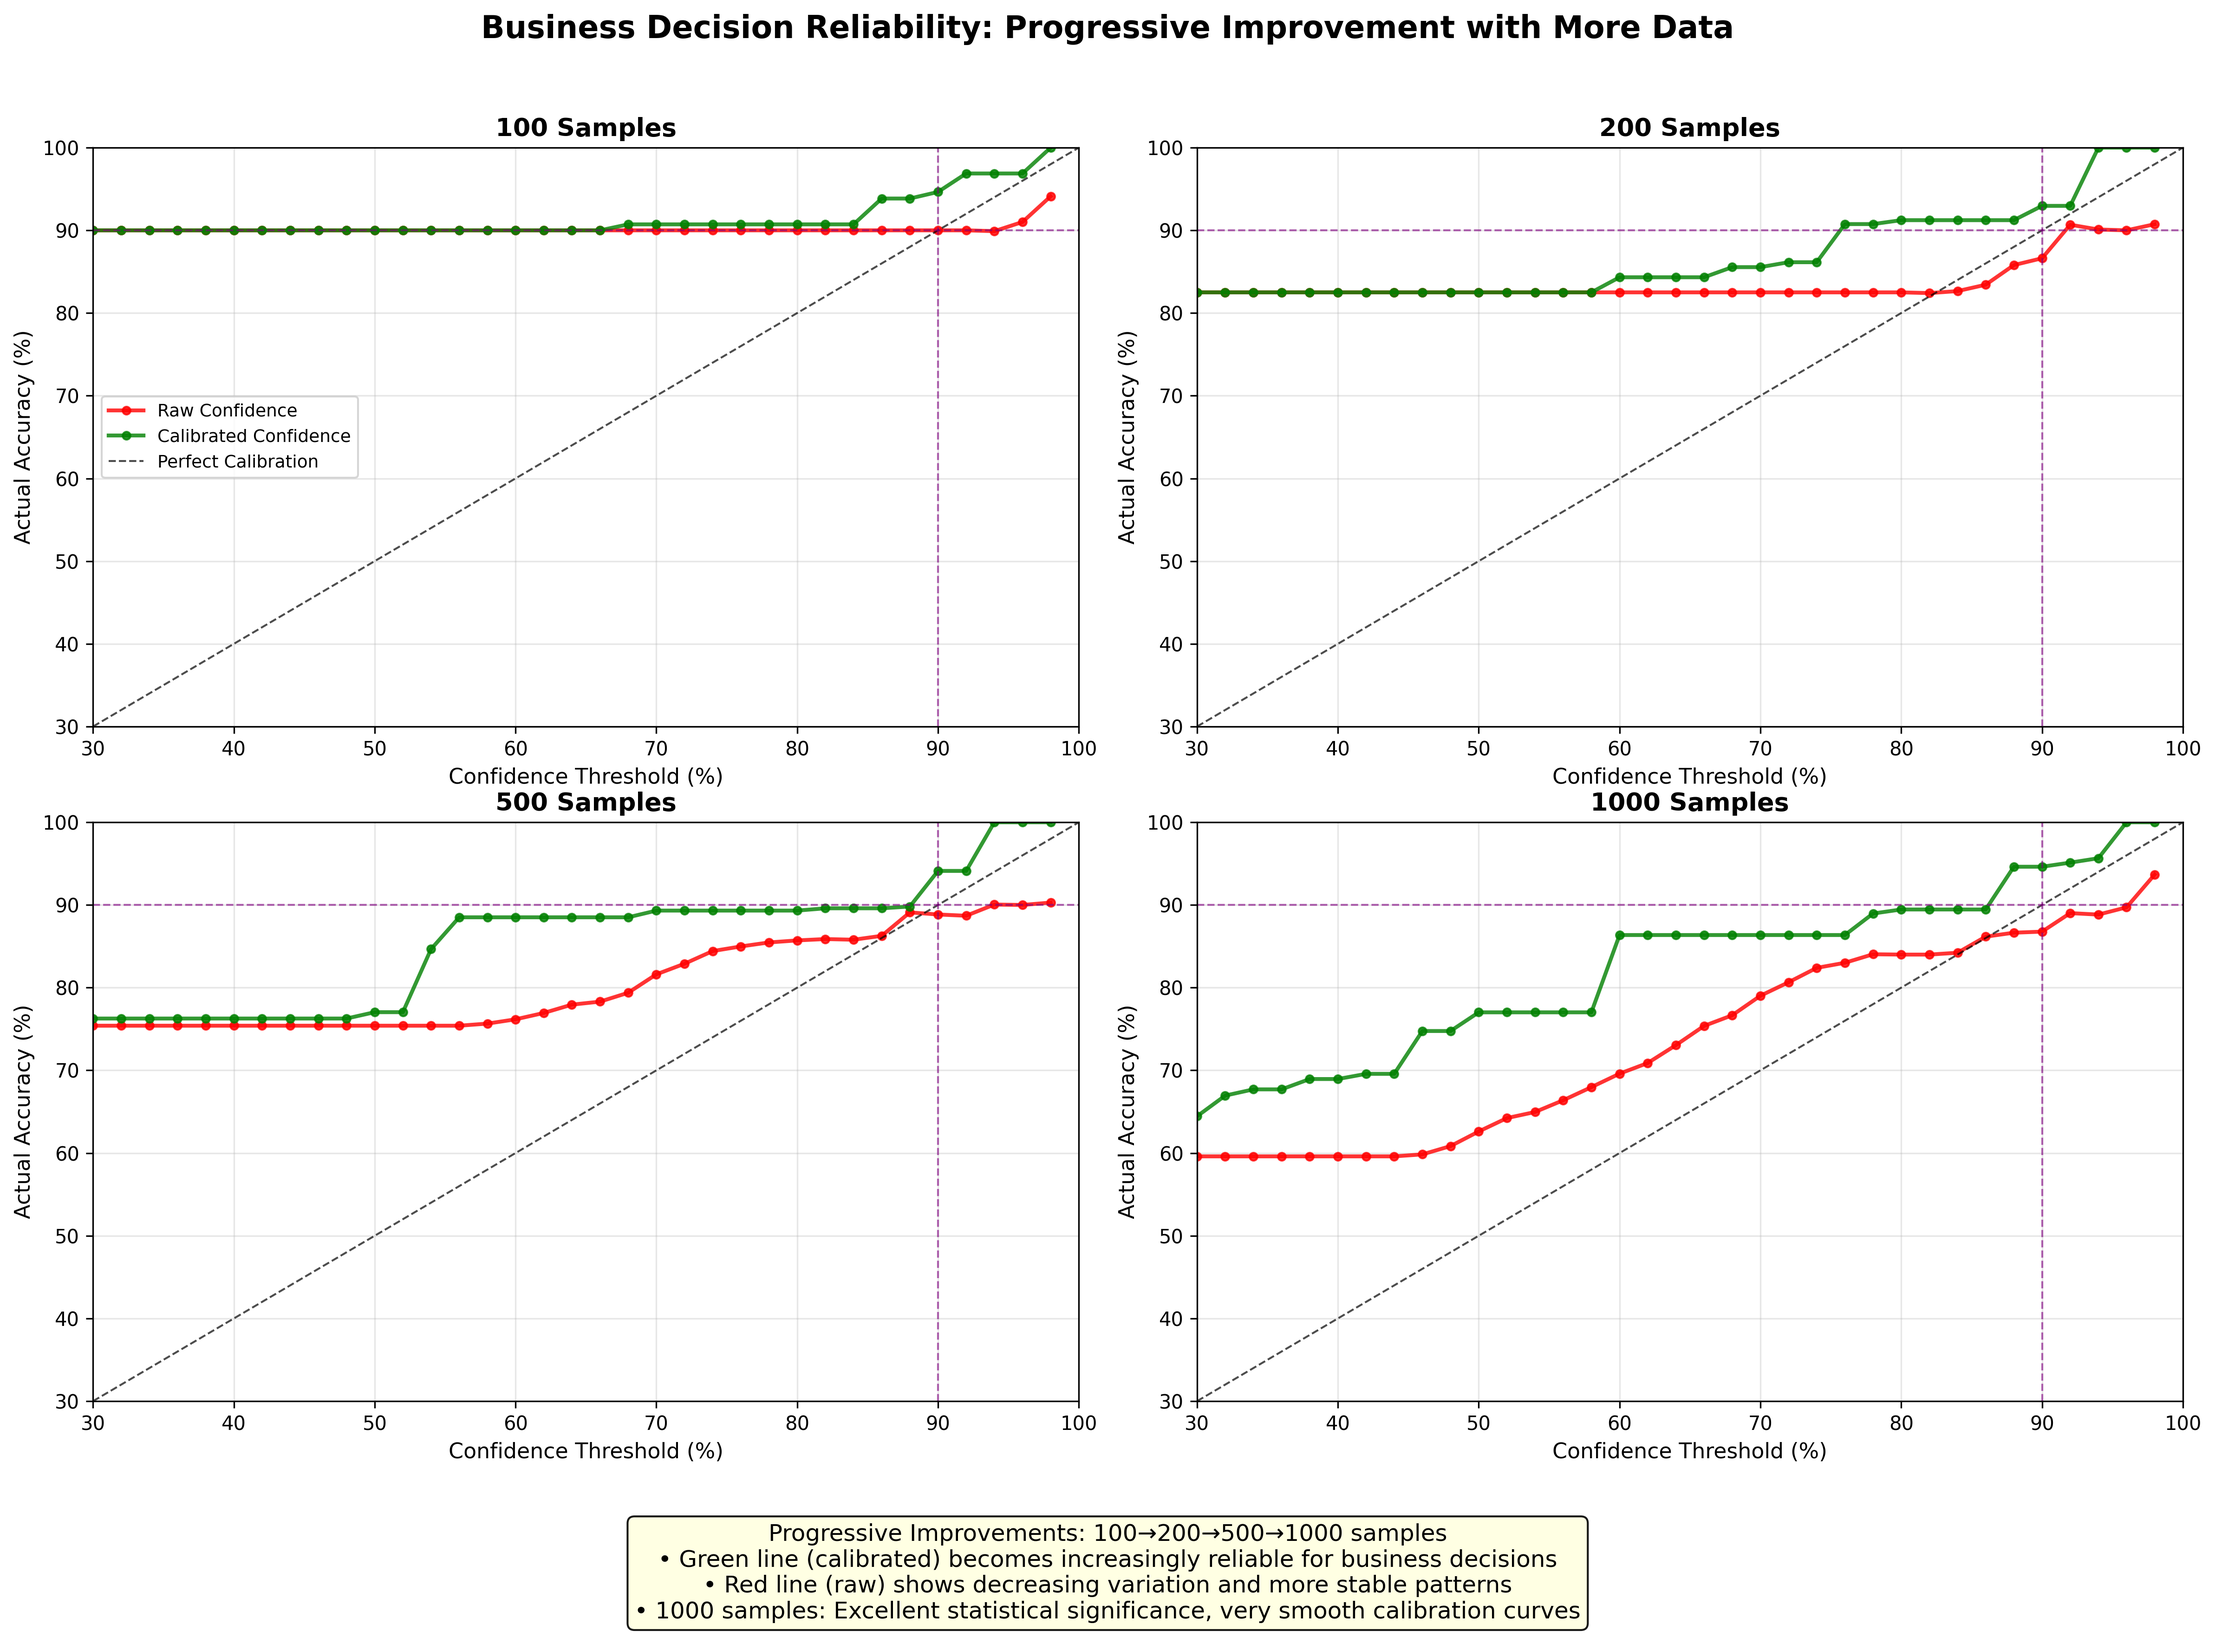
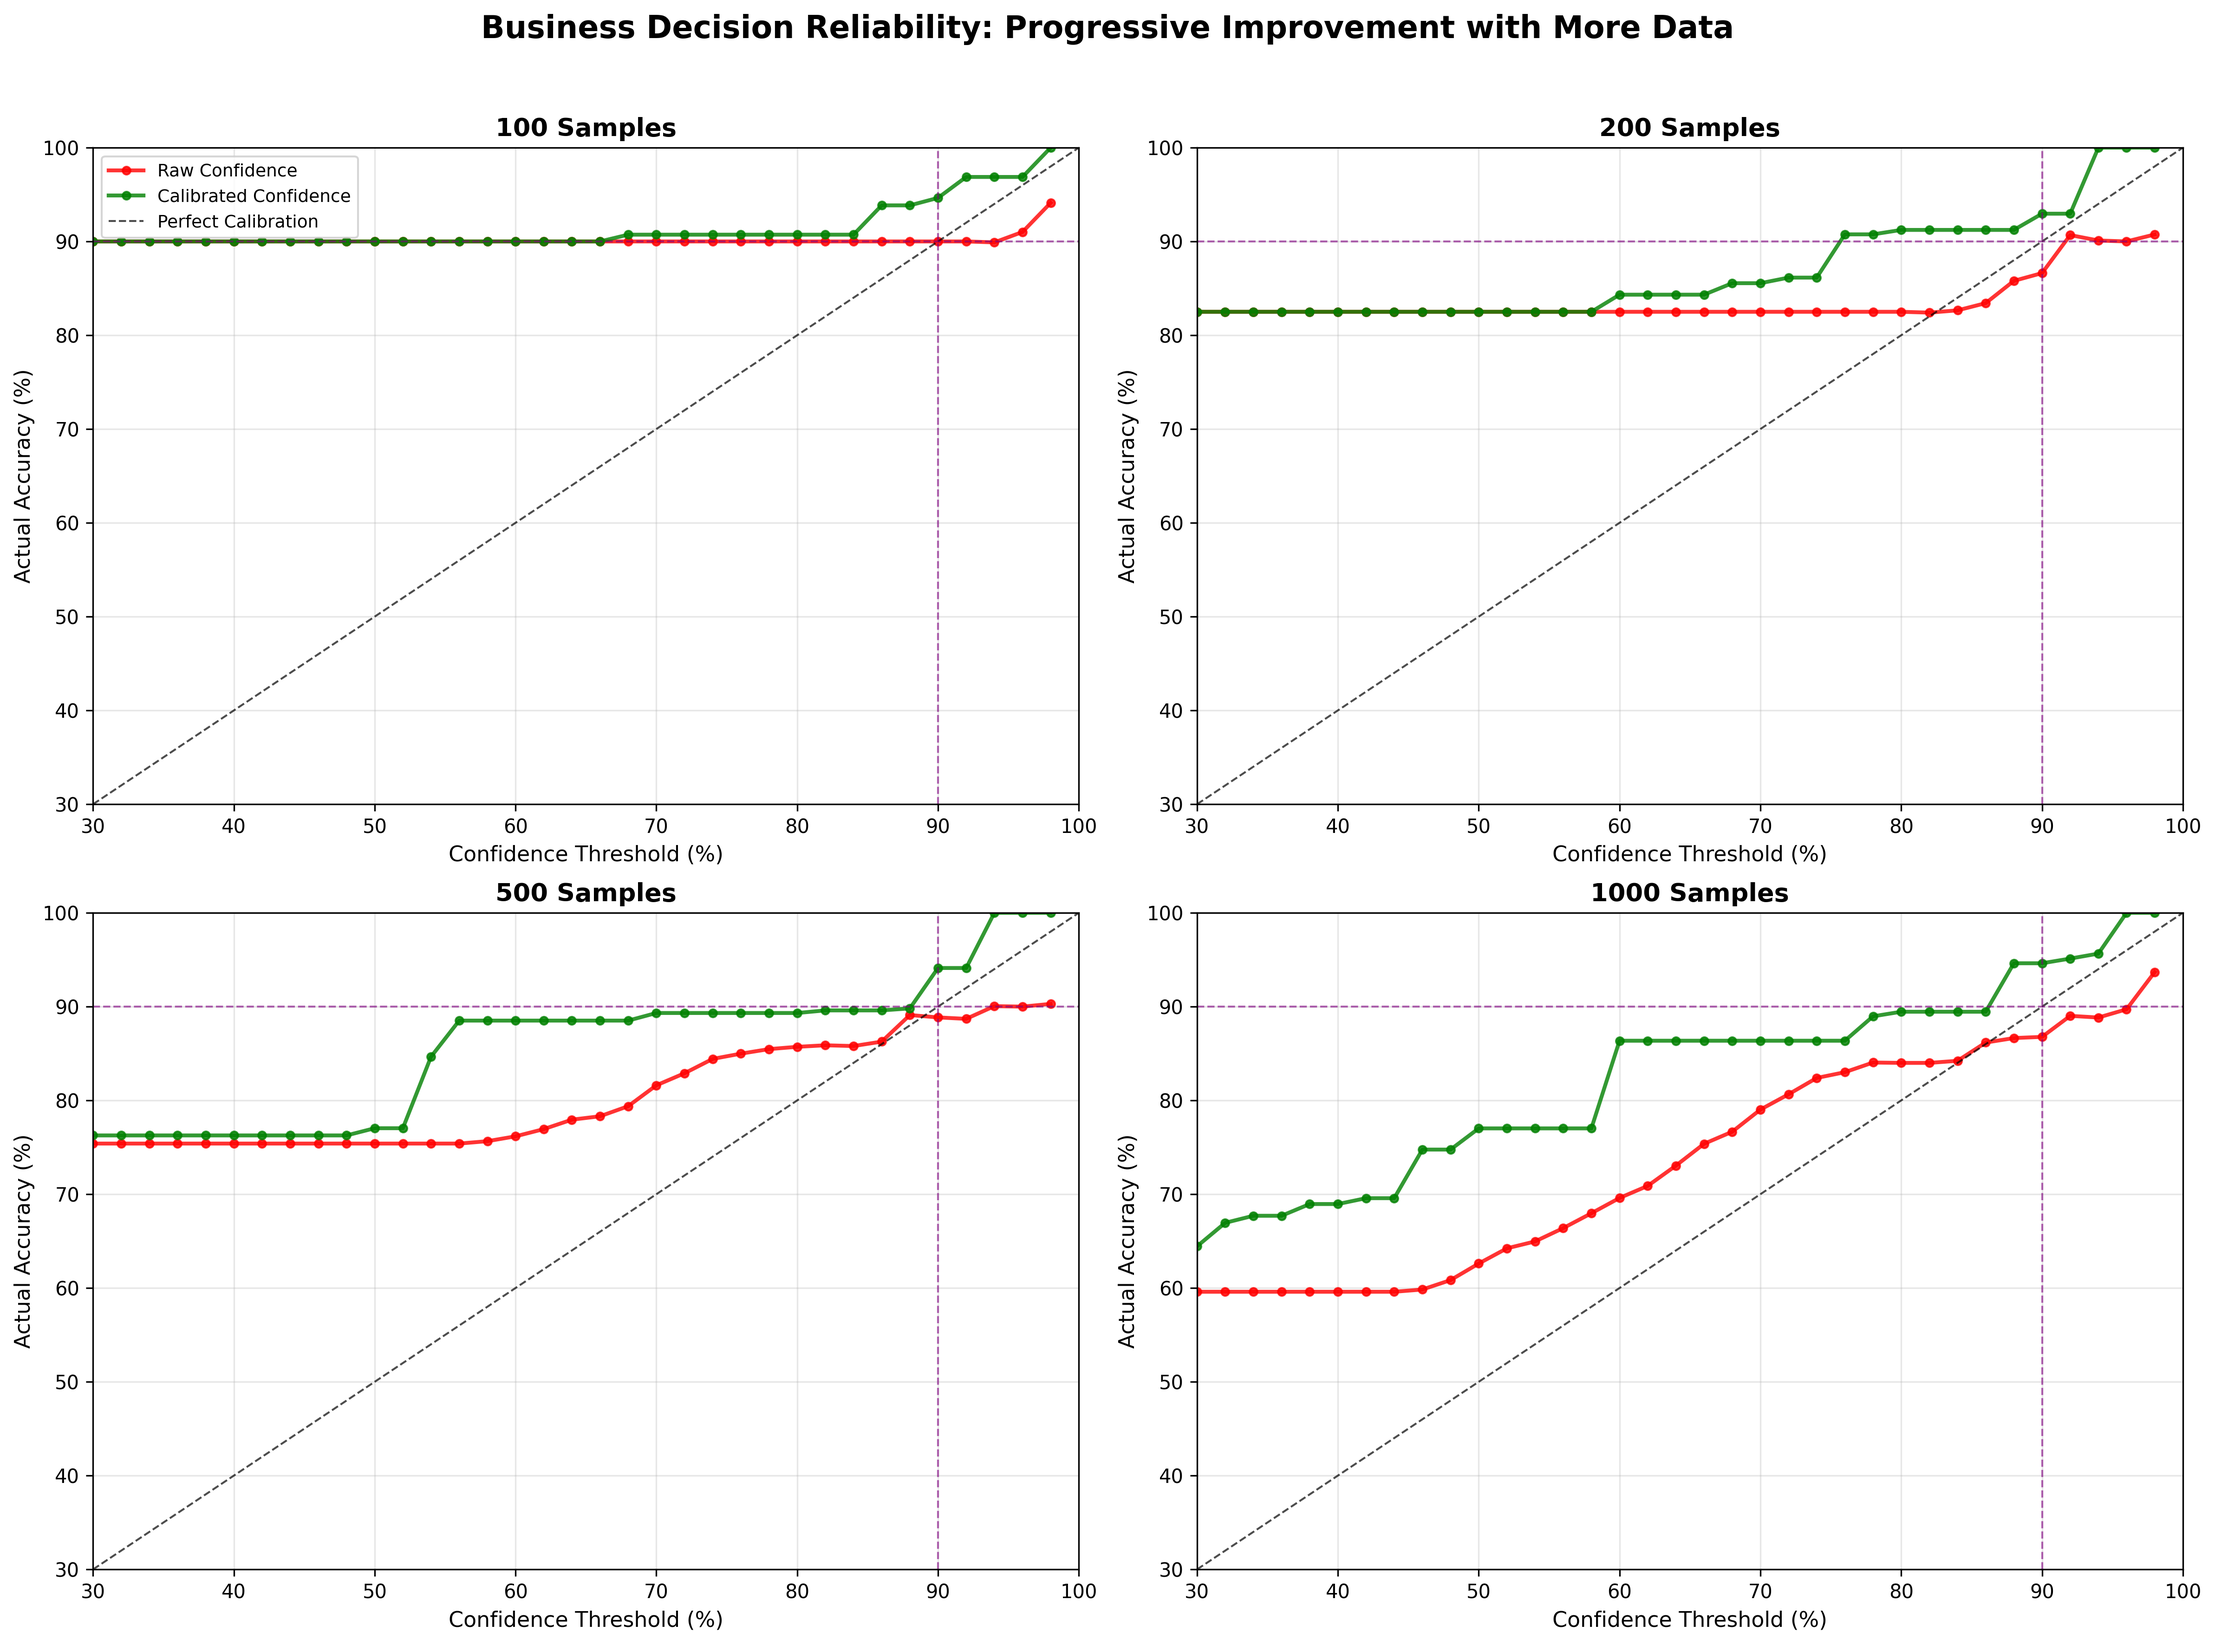
Tweaks to some images.

diff --git a/create_calibration_method_comparison.py b/create_calibration_method_comparison.py
@@ -148,29 +148,11 @@ def create_calibration_method_comparison():
             # Clean chart without text box - explanation goes in README
             plt.tight_layout()
         elif method_name == "Platt Scaling":
-            interpretation = (
-                "🔧 Platt Scaling Results:\n"
-                "• Uses logistic regression to calibrate\n"
-                "• Parametric method (assumes sigmoid shape)\n"
-                "• Good for smaller datasets\n"
-                "• Moderate improvement in calibration"
-            )
-            fig.text(0.5, 0.02, interpretation, ha='center', fontsize=10,
-                     bbox=dict(boxstyle='round', facecolor='lightyellow', alpha=0.9))
+            # Clean chart without text box - explanation goes in README
             plt.tight_layout()
-            plt.subplots_adjust(bottom=0.15)
         else:  # Isotonic
-            interpretation = (
-                "🎯 Isotonic Regression Results:\n"
-                "• Non-parametric (no shape assumptions)\n"
-                "• Learns monotonic mapping\n"
-                "• Best for larger datasets\n"
-                "• Excellent calibration (ECE ≈ 0.000)"
-            )
-            fig.text(0.5, 0.02, interpretation, ha='center', fontsize=10,
-                     bbox=dict(boxstyle='round', facecolor='lightyellow', alpha=0.9))
+            # Clean chart without text box - explanation goes in README
             plt.tight_layout()
-            plt.subplots_adjust(bottom=0.15)
         
         # Save individual chart
         filename = f"images/calibration/reliability_{method_name.lower().replace(' ', '_')}.png"

diff --git a/create_combined_reliability_chart.py b/create_combined_reliability_chart.py
@@ -132,19 +132,9 @@ def create_combined_reliability_chart():
     fig.suptitle('Business Decision Reliability: Progressive Improvement with More Data', 
                  fontsize=16, fontweight='bold')
     
-    # Add explanation
-    explanation_text = (
-        "Progressive Improvements: 100→200→500→1000 samples\n"
-        "• Green line (calibrated) becomes increasingly reliable for business decisions\n"
-        "• Red line (raw) shows decreasing variation and more stable patterns\n"
-        "• 1000 samples: Excellent statistical significance, very smooth calibration curves"
-    )
-    
-    fig.text(0.5, 0.02, explanation_text, ha='center', fontsize=12,
-             bbox=dict(boxstyle='round', facecolor='lightyellow', alpha=0.9))
-    
+    # Clean chart without text box - explanation goes in README
     plt.tight_layout()
-    plt.subplots_adjust(top=0.90, bottom=0.15)
+    plt.subplots_adjust(top=0.90)
     plt.savefig("images/calibration/business_reliability_progression.png", dpi=300, bbox_inches='tight')
     print("💾 Combined reliability progression chart saved")
     plt.close()

diff --git a/README.md b/README.md
@@ -568,6 +568,12 @@ We have different algorithms to fix poorly calibrated confidence scores. Each wo
 
 **How It Works**: Uses logistic regression to learn a sigmoid-shaped mapping from raw confidence to calibrated confidence.
 
+**Key Characteristics:**
+- **Parametric method**: Assumes the calibration mapping follows a sigmoid (S-curve) shape
+- **Good for smaller datasets**: Works well even with limited training data
+- **Moderate improvement**: Provides solid calibration gains, though not always perfect
+- **Fast and simple**: Quick to train and apply, making it practical for production use
+
 **Results**:
 - **ECE improved**: 0.151 → 0.040 (much better!)
 - **Red dots closer to diagonal**: Better calibration across most confidence ranges
@@ -578,6 +584,12 @@ We have different algorithms to fix poorly calibrated confidence scores. Each wo
 ![Isotonic Regression Results](images/calibration/reliability_isotonic_regression.png)
 
 **How It Works**: Learns a flexible, monotonic (always increasing) mapping without assuming any specific shape.
+
+**Key Characteristics:**
+- **Non-parametric method**: Makes no assumptions about the calibration curve shape
+- **Learns monotonic mapping**: Ensures that higher confidence always means higher accuracy
+- **Best for larger datasets**: Needs more data to learn the flexible mapping effectively
+- **Excellent calibration**: Often achieves near-perfect calibration (ECE ≈ 0.000)
 
 **Results**:
 - **ECE = 0.000**: Perfect calibration! 
@@ -606,6 +618,12 @@ The bin-based reliability diagrams show the overall calibration quality, but for
 More training data leads to better calibration. Here's how the business reliability charts improve with more labeled examples:
 
 ![Business Reliability Progression](images/calibration/business_reliability_progression.png)
+
+**What This Shows**: As we increase from 100→200→500→1000 samples, the calibration quality dramatically improves:
+
+- **Green line (calibrated)** becomes increasingly reliable for business decisions
+- **Red line (raw)** shows decreasing variation and more stable patterns  
+- **1000 samples**: Excellent statistical significance with very smooth calibration curves
 
 **Progressive Improvements with More Data**:
 
